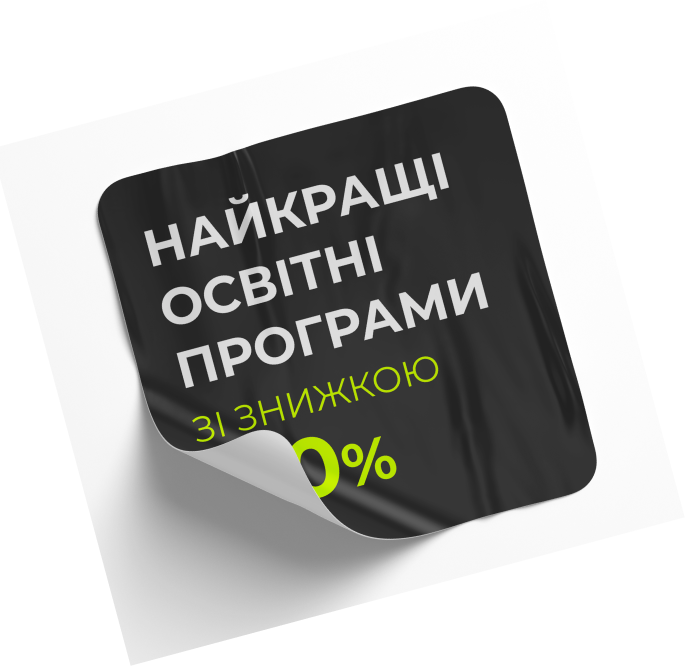
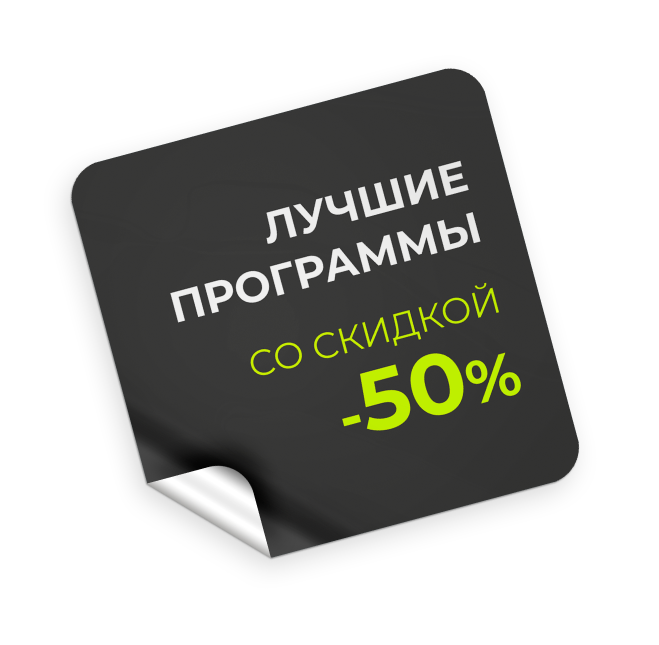
fix

diff --git a/black-friday.kz/index.htm b/black-friday.kz/index.htm
@@ -6,7 +6,7 @@
     <title>Black Friday</title>
     <meta
       name="description"
-      content="Це ваш єдиний шанс — реєструйтеся та отримайте гарантовану знижку на будь-яку навчальну програму «Бізнес-Конструктор» і досягайте результату!
+      content="Это ваш единственный шанс – регистрируйтесь и получите гарантированную скидку на любую обучающую программу «Бизнес-Конструктор» и достигайте результата!
     "
       data-vmid="description"
     />
@@ -14,7 +14,7 @@
     <meta property="og:title" content="Black Friday" />
     <meta
       property="og:description"
-      content="Це ваш єдиний шанс — реєструйтеся та отримайте гарантовану знижку на будь-яку навчальну програму «Бізнес-Конструктор» і досягайте результату!"
+      content="Это ваш единственный шанс – регистрируйтесь и получите гарантированную скидку на любую обучающую программу «Бизнес-Конструктор» и достигайте результата!"
     />
     <meta property="og:image" content="img/og-image.png" />
     <meta property="og:url" content="" />
@@ -95,9 +95,12 @@
               <a href="#programs">За скидками</a>
             </li>
             <li>
-              <a class="phone" href="tel:+380931701239"
-                >+38 ( 093 ) 170 12 39</a
-              >
+              <a
+                class="phone"
+                href="tel:8 747 094 15 00
+              "
+                >8 747 094 15 00
+              </a>
             </li>
           </ul>
           <div class="header__burger">
@@ -177,7 +180,7 @@
         <div class="container">
           <div
             class="now__dec now__dec-1 lazy entered loaded"
-            data-bg="img/dec-2-min.png"
+            data-bg="img/dec-2.png"
           ></div>
           <div
             class="now__dec now__dec-2 lazy entered loaded"
@@ -188,7 +191,7 @@
             data-bg="img/dec-4.png"
           ></div>
           <div class="now__title">
-            <b>Зарегистри<b>-</b>руйтесь </b> <span>сейчас</span>
+            <b>Зарегис<b>-</b>трируйтесь </b> <span>сейчас</span>
           </div>
           <div class="now__subtitle">
             чтобы получить скидку на Black Friday и забронировать место!
@@ -228,10 +231,10 @@
               class="programs__dec programs__dec-1 lazy entered loaded"
               data-bg="img/dec-5.png"
             ></div>
-            <div
+            <!-- <div
               class="programs__dec programs__dec-2 lazy entered loaded"
               data-bg="img/dec-5.png"
-            ></div>
+            ></div> -->
             <div class="program program--long program--padding">
               <div class="program__title"><span>СЕО</span></div>
               <div class="program__text">
@@ -245,7 +248,7 @@
               <div class="program__btn">
                 <a
                   href="#form"
-                  data-rel="2108311000783839096"
+                  data-rel="2108311000792288198"
                   class="btn btn-page program-btn"
                 >
                   Выбрать программу
@@ -264,7 +267,7 @@
               <div class="program__btn">
                 <a
                   href="#form"
-                  data-rel="2108311000783839119"
+                  data-rel="2108311000792288267"
                   class="btn btn-page program-btn"
                 >
                   Выбрать программу
@@ -283,7 +286,7 @@
               <div class="program__btn">
                 <a
                   href="#form"
-                  data-rel="2108311000783839142"
+                  data-rel="2108311000792288244"
                   class="btn btn-page program-btn"
                 >
                   Выбрать программу
@@ -303,7 +306,7 @@
               <div class="program__btn">
                 <a
                   href="#form"
-                  data-rel="2108311000783839165"
+                  data-rel="2108311000792288221"
                   class="btn btn-page program-btn"
                 >
                   Выбрать программу
@@ -513,7 +516,7 @@
                     class="input"
                     name="name"
                     type="text"
-                    placeholder="Твоє ім’я"
+                    placeholder="Имя"
                     required=""
                     value="Unknow User"
                   />
@@ -3344,7 +3347,7 @@
                       required="true"
                       inputmode="tel"
                       autocomplete="off"
-                      placeholder="Твій номер телефону"
+                      placeholder="Номер телефона"
                     />
                   </div>
                 </label>
@@ -3354,7 +3357,7 @@
                     class="input email"
                     type="email"
                     name="email"
-                    placeholder="Твій email"
+                    placeholder="Email"
                     required="true"
                   />
                 </label>
@@ -3406,7 +3409,7 @@
                   <input
                     type="hidden"
                     name="landing_id"
-                    value="2108311000783839257"
+                    value="2108311000792288290"
                     autocomplete="off"
                   />
                   <input
@@ -3435,7 +3438,7 @@
                   <input
                     type="hidden"
                     name="success_url"
-                    value="https://web.bizconstructor.com/t8g2ue"
+                    value="https://web.bizconstructor.com/35ryz5"
                     autocomplete="off"
                   />
                   <input
@@ -3453,31 +3456,27 @@
                   <input
                     type="hidden"
                     name="send_to_gf"
-                    value="gf-black-friday"
+                    value="gf-black-friday-kz"
                   />
                 </div>
                 <select id="selectbox2">
-                  <option value="" disabled selected hidden>Програма</option>
-                  <option value="2108311000783839096">СЕО</option>
-                  <option value="2108311000783839119">
-                    СЕО ресторанного бізнесу
+                  <option value="" disabled selected hidden>Программа</option>
+                  <option value="2108311000792288198">СЕО</option>
+                  <option value="2108311000792288267">
+                    СЕО ресторанного бизнеса
                   </option>
-                  <option value="2108311000783839142">
-                    СЕО будівельної компанії
+                  <option value="2108311000792288244">
+                    СЕО строительной компании
                   </option>
-                  <option value="2108311000783839165">Medical CEO</option>
-                  <option value="2108311000783839188">Retail CEO</option>
-                  <option value="2108311000783839211">
-                    Ефективний керівник
-                  </option>
-                  <option value="2108311000783839234">HŌLDERS</option>
-                  <option value="2108311000783839257">
-                    Не визначився, хочу консультацію
+                  <option value="2108311000792288221">Medical CEO</option>
+
+                  <option value="2108311000792288290">
+                    Не определился, хочу консультацию
                   </option>
                 </select>
 
                 <button class="form__btn btn-page subm" type="submit">
-                  <span>ЗАЛИШИТИ ЗАЯВКУ</span>
+                  <span>ОСТАВИТЬ ЗАЯВКУ </span>
                 </button>
 
                 <input type="hidden" name="rolecompany" value="" /><input
@@ -3508,36 +3507,36 @@
 
         <div class="footer__container">
           <div class="footer__menu">
-            <h5 class="footer__menu_title">Корисно</h5>
+            <h5 class="footer__menu_title">Полезно</h5>
             <ul class="footer__menu_list">
               <li>
                 <a
                   href="http://bizconstructor.com/about?_ga=2.150560566.1675371198.1664796566-206334048.1655729050"
-                  >Про Нас</a
+                  >О нас</a
                 >
               </li>
               <li>
                 <a
                   href="http://bizconstructor.com/blog?_ga=2.150631350.1675371198.1664796566-206334048.1655729050"
-                  >Блог Бізнес-Конструктор</a
+                  >Блог Бизнес-Конструктор</a
                 >
               </li>
               <li>
                 <a
                   href="http://www.kunitsky.com/?_ga=2.150631350.1675371198.1664796566-206334048.1655729050"
-                  >Блог Кирила Куницького</a
+                  >Блог Кирилла Куницкого</a
                 >
               </li>
               <li>
                 <a
                   href="https://www.work.ua/jobs/by-company/448901?_ga=2.153252920.1675371198.1664796566-206334048.1655729050"
-                  >Робота в Бізнес-Конструктор</a
+                  >Работа в Бизнес-Конструкторе</a
                 >
               </li>
             </ul>
           </div>
           <div class="footer__links">
-            <h5 class="footer__links_title">Клієнтам</h5>
+            <h5 class="footer__links_title">Клиентам</h5>
             <ul class="footer__menu_list">
               <li>
                 <!-- <a href="http://refund.bizconstructor.com/ua?_ga=2.84367262.645259001.1658240152-892051805.1657004770">Умови повернення коштів</a> -->
@@ -3545,7 +3544,7 @@
               <li>
                 <a
                   href="http://privacy.bizconstructor.com/?_ga=2.5784179.1589075584.1677049522-1127121164.1669016348&_gac=1.49614482.1674571172.EAIaIQobChMI2p-83bfg_AIVzex3Ch3jUgpJEAAYASAAEgILS_D_BwE"
-                  >Политика конфиденциальности KZ</a
+                  >Политика конфиденциальности</a
                 >
               </li>
               <li>
@@ -3557,7 +3556,7 @@
             </ul>
           </div>
           <div class="footer__social">
-            <h5 class="footer__social_title">Наші соц.мережі</h5>
+            <h5 class="footer__social_title">Наши соц.сети</h5>
             <div class="footer__social_links footer__socials">
               <a
                 class="footer__social_link"
@@ -3675,15 +3674,15 @@
         // Дата мероприятия
         let cDate = "22 серпня",
           // Landing id // Online
-          cLandingId = "2108311000783839257",
+          cLandingId = "2108311000792288290",
           // Landing id // Online Pro
-          cLandingIdPro = "2108311000783839257",
+          cLandingIdPro = "2108311000792288290",
           // es_mail_id
           cMail_id = "",
           // es_id
           cEs_id = "1154",
           // success_url
-          cSuccess_url = "https://web.bizconstructor.com/t8g2ue";
+          cSuccess_url = "https://web.bizconstructor.com/35ryz5";
 
         //  дата скидки (автозамена)
         let dataDeadline;

diff --git a/index.html b/index.html
@@ -1,0 +1,21 @@
+<!DOCTYPE HTML PUBLIC "-//W3C//DTD HTML 4.01 Transitional//EN">
+
+<html>
+<body bgcolor="#FFFFFF">
+<table border=0 width=100% height=100%>
+<tr>
+    <td align=center><table border=0 cellpadding=0 cellspacing=0 width=400>
+	<tr><td bgcolor=#000000><table border=0 cellpadding=3 cellspacing=1 width=400>
+	    <tr>
+		    <td align=center bgcolor=#0000FF><font color=#FFFFFF face='Verdana, Arial, Helvetica, sans-serif' size=2><b>Добро пожаловать!</b></font></td>
+			</tr>
+			    <tr>
+				    <td align=center bgcolor=#FFFFFF><font color=#000000 face='Verdana, Arial, Helvetica, sans-serif' size=2><b>Ваш сайт был успешно настроен на сервере.<br><br>Замените эту временную страницу на вашу.</b></font></td>
+					</tr>
+					    </table></td></tr></table>
+						<a href="http://www.hoster.kz" target="_blank" style="text-decoration: none;"><font color=gray face='Verdana, Arial, Helvetica, sans-serif' size=1>ТОО "Компания Hoster.KZ"</font></a>
+						    </td>
+						    </tr>
+						    </table>
+						    </body>
+						    </html>

diff --git a/ubs/index.html b/ubs/index.html
@@ -258,6 +258,7 @@
                     Входить до ТОП-5 найкращих команд напряму у сфері
                     будівництва та капітальних інвестицій.У ТОП міжнародного
                     рейтингу LEGAL 500 у сфері «Нерухомість та будівництво»
+                    TOTUM LF
                   </p>
                 </div>
               </div>
@@ -272,7 +273,7 @@
                 <div class="speakers__text">
                   <p>
                     Засновник Київської школи девелопменту та СЕО «Спільнота -
-                    Девелопер нової генерації» TOTUM LF
+                    Девелопер нової генерації»
                   </p>
                 </div>
               </div>

diff --git a/black-friday.kz/css/main.css b/black-friday.kz/css/main.css
@@ -914,7 +914,7 @@ a {
 .now__title b {
   display: block;
   color: #fff;
-  font-size: 52px;
+  font-size: 46px;
   word-wrap: break-word;
   font-weight: 800;
   transform: rotate(-1.788deg);
@@ -922,7 +922,7 @@ a {
 }
 @media (min-width: 1200px) {
   .now__title b {
-    font-size: 114px;
+    font-size: 92px;
     transform: rotate(3.617deg);
   }
 }
@@ -1241,7 +1241,7 @@ a {
   bottom: -28px;
   left: 50%;
   transform: translate(-50%, 0);
-  max-width: 282px;
+  max-width: 312px;
   width: 100%;
   z-index: 1;
 }

diff --git a/black-friday.kz/scss/sections/_now.scss b/black-friday.kz/scss/sections/_now.scss
@@ -64,14 +64,14 @@
     b {
       display: block;
       color: #fff;
-      font-size: 52px;
+      font-size: 46px;
       word-wrap: break-word;
       font-weight: 800;
       transform: rotate(-1.788deg);
       line-height: 1;
 
       @include media-breakpoint-up(xl) {
-        font-size: 114px;
+        font-size: 92px;
         transform: rotate(3.617deg);
       }
 

diff --git a/black-friday.kz/scss/sections/_programs.scss b/black-friday.kz/scss/sections/_programs.scss
@@ -209,7 +209,7 @@
       bottom: -28px;
       left: 50%;
       transform: translate(-50%, 0);
-      max-width: 282px;
+      max-width: 312px;
       width: 100%;
       z-index: 1;
       .btn {

diff --git a/gf-black-friday-kz/export.php b/gf-black-friday-kz/export.php
@@ -35,7 +35,7 @@ $data['entry.648990995'] = isset($_POST['ref']) ? $_POST['ref'] : false;
 
 
 // теперь подготовим данные для отправки в гугл форму
-$url = 'https://docs.google.com/forms/u/1/d/e/1FAIpQLSePVyV58s6-Ex1qXIRFq1TIe7s8ycLsL9b6j2SecP4jM-Bkgw/formResponse'; // куда слать, это атрибут action у гугл формы
+$url = 'https://docs.google.com/forms/u/1/d/e/1FAIpQLSfjA2E8fnipMAOhyCtQJFPcIl-FeHESUVmvjAd1AAMSqUujWg/formResponse'; // куда слать, это атрибут action у гугл формы
 
 
 $data = http_build_query($data); // теперь сериализуем массив данных в строку для отправки
